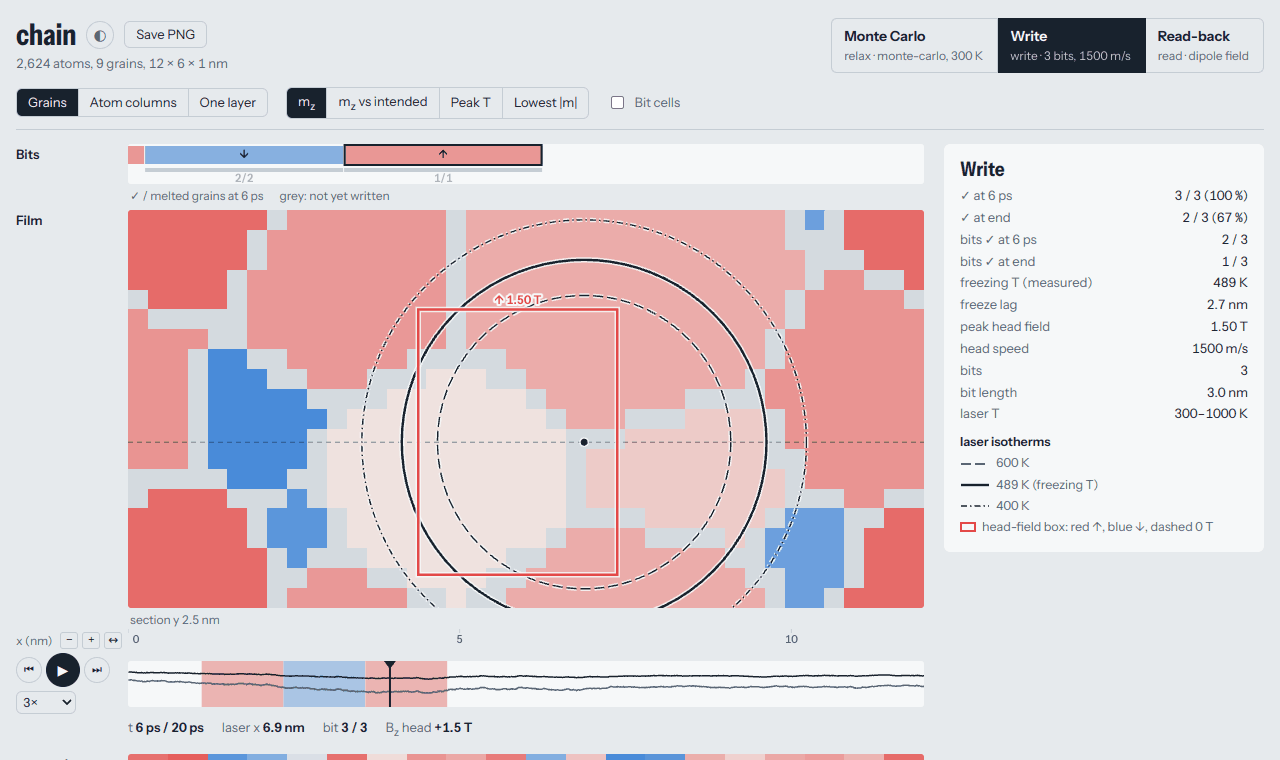
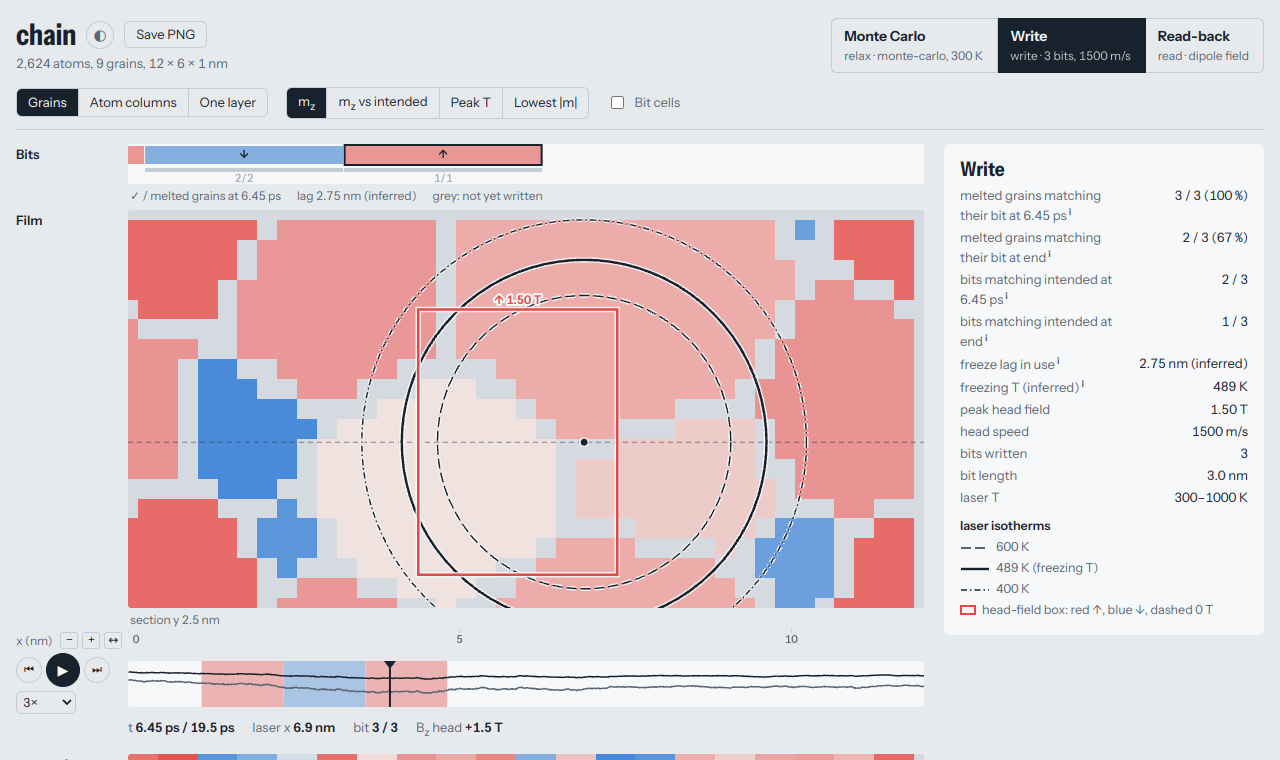
README.MD screenshot retaken for new version

diff --git a/hamrvis/viewer/app.js b/hamrvis/viewer/app.js
@@ -1121,7 +1121,7 @@ function drawInspector() {
     ["magnetic atoms", (e.grains.magnetic_atoms || e.grains.atoms)[g].toLocaleString()]];
   if (d.g) rows.push([mk("m<sub>z</sub>", "r"), fmt(gmz(d, S.f, g), 3)], [mk("|m|", "r"), fmt(gml(d, S.f, g), 3)]);
   if (a) {
-    if (a.intended) rows.push([mk("intended", "i"), `${a.intended > 0 ? "↑ +z" : "↓ −z"} (bit ${a.bit + 1}, ${lagText(e)})`]);
+    if (a.intended) rows.push([mk("intended", "i"), `${a.intended > 0 ? "↑ +z" : "↓ −z"}, bit ${a.bit + 1}`], [mk("freeze lag", "i"), lagText(e).slice(4)]);
     rows.push([mk("final m<sub>z</sub>", "r"), fmt(a.final, 3)]);
     if (a.decision_step != null) rows.push([mk("decided", "i"), timeText(d, a.decision_step * e.dt)], [mk("T then", "c"), `${fmt(a.T_dec, 0)} K`],
       [mk("head B<sub>z</sub> then", "c"), `${sgn(+(a.B_dec * e.hamr.field_uz).toFixed(2))} T (${CAT[a.category]})`],

diff --git a/hamrvis/viewer/style.css b/hamrvis/viewer/style.css
@@ -219,3 +219,4 @@ td.num { text-align: right; }
 .how { margin: 0 0 14px; font-size: 13px; color: var(--muted); max-width: 100ch; }
 sup.src { font-size: 9px; font-weight: 700; color: var(--muted); margin-left: 2px; cursor: help; }
 .figkey i.line.solid { border-top-style: solid; }
+#inspector .facts dd { white-space: nowrap; }   /* values on one line; the labels wrap instead */
